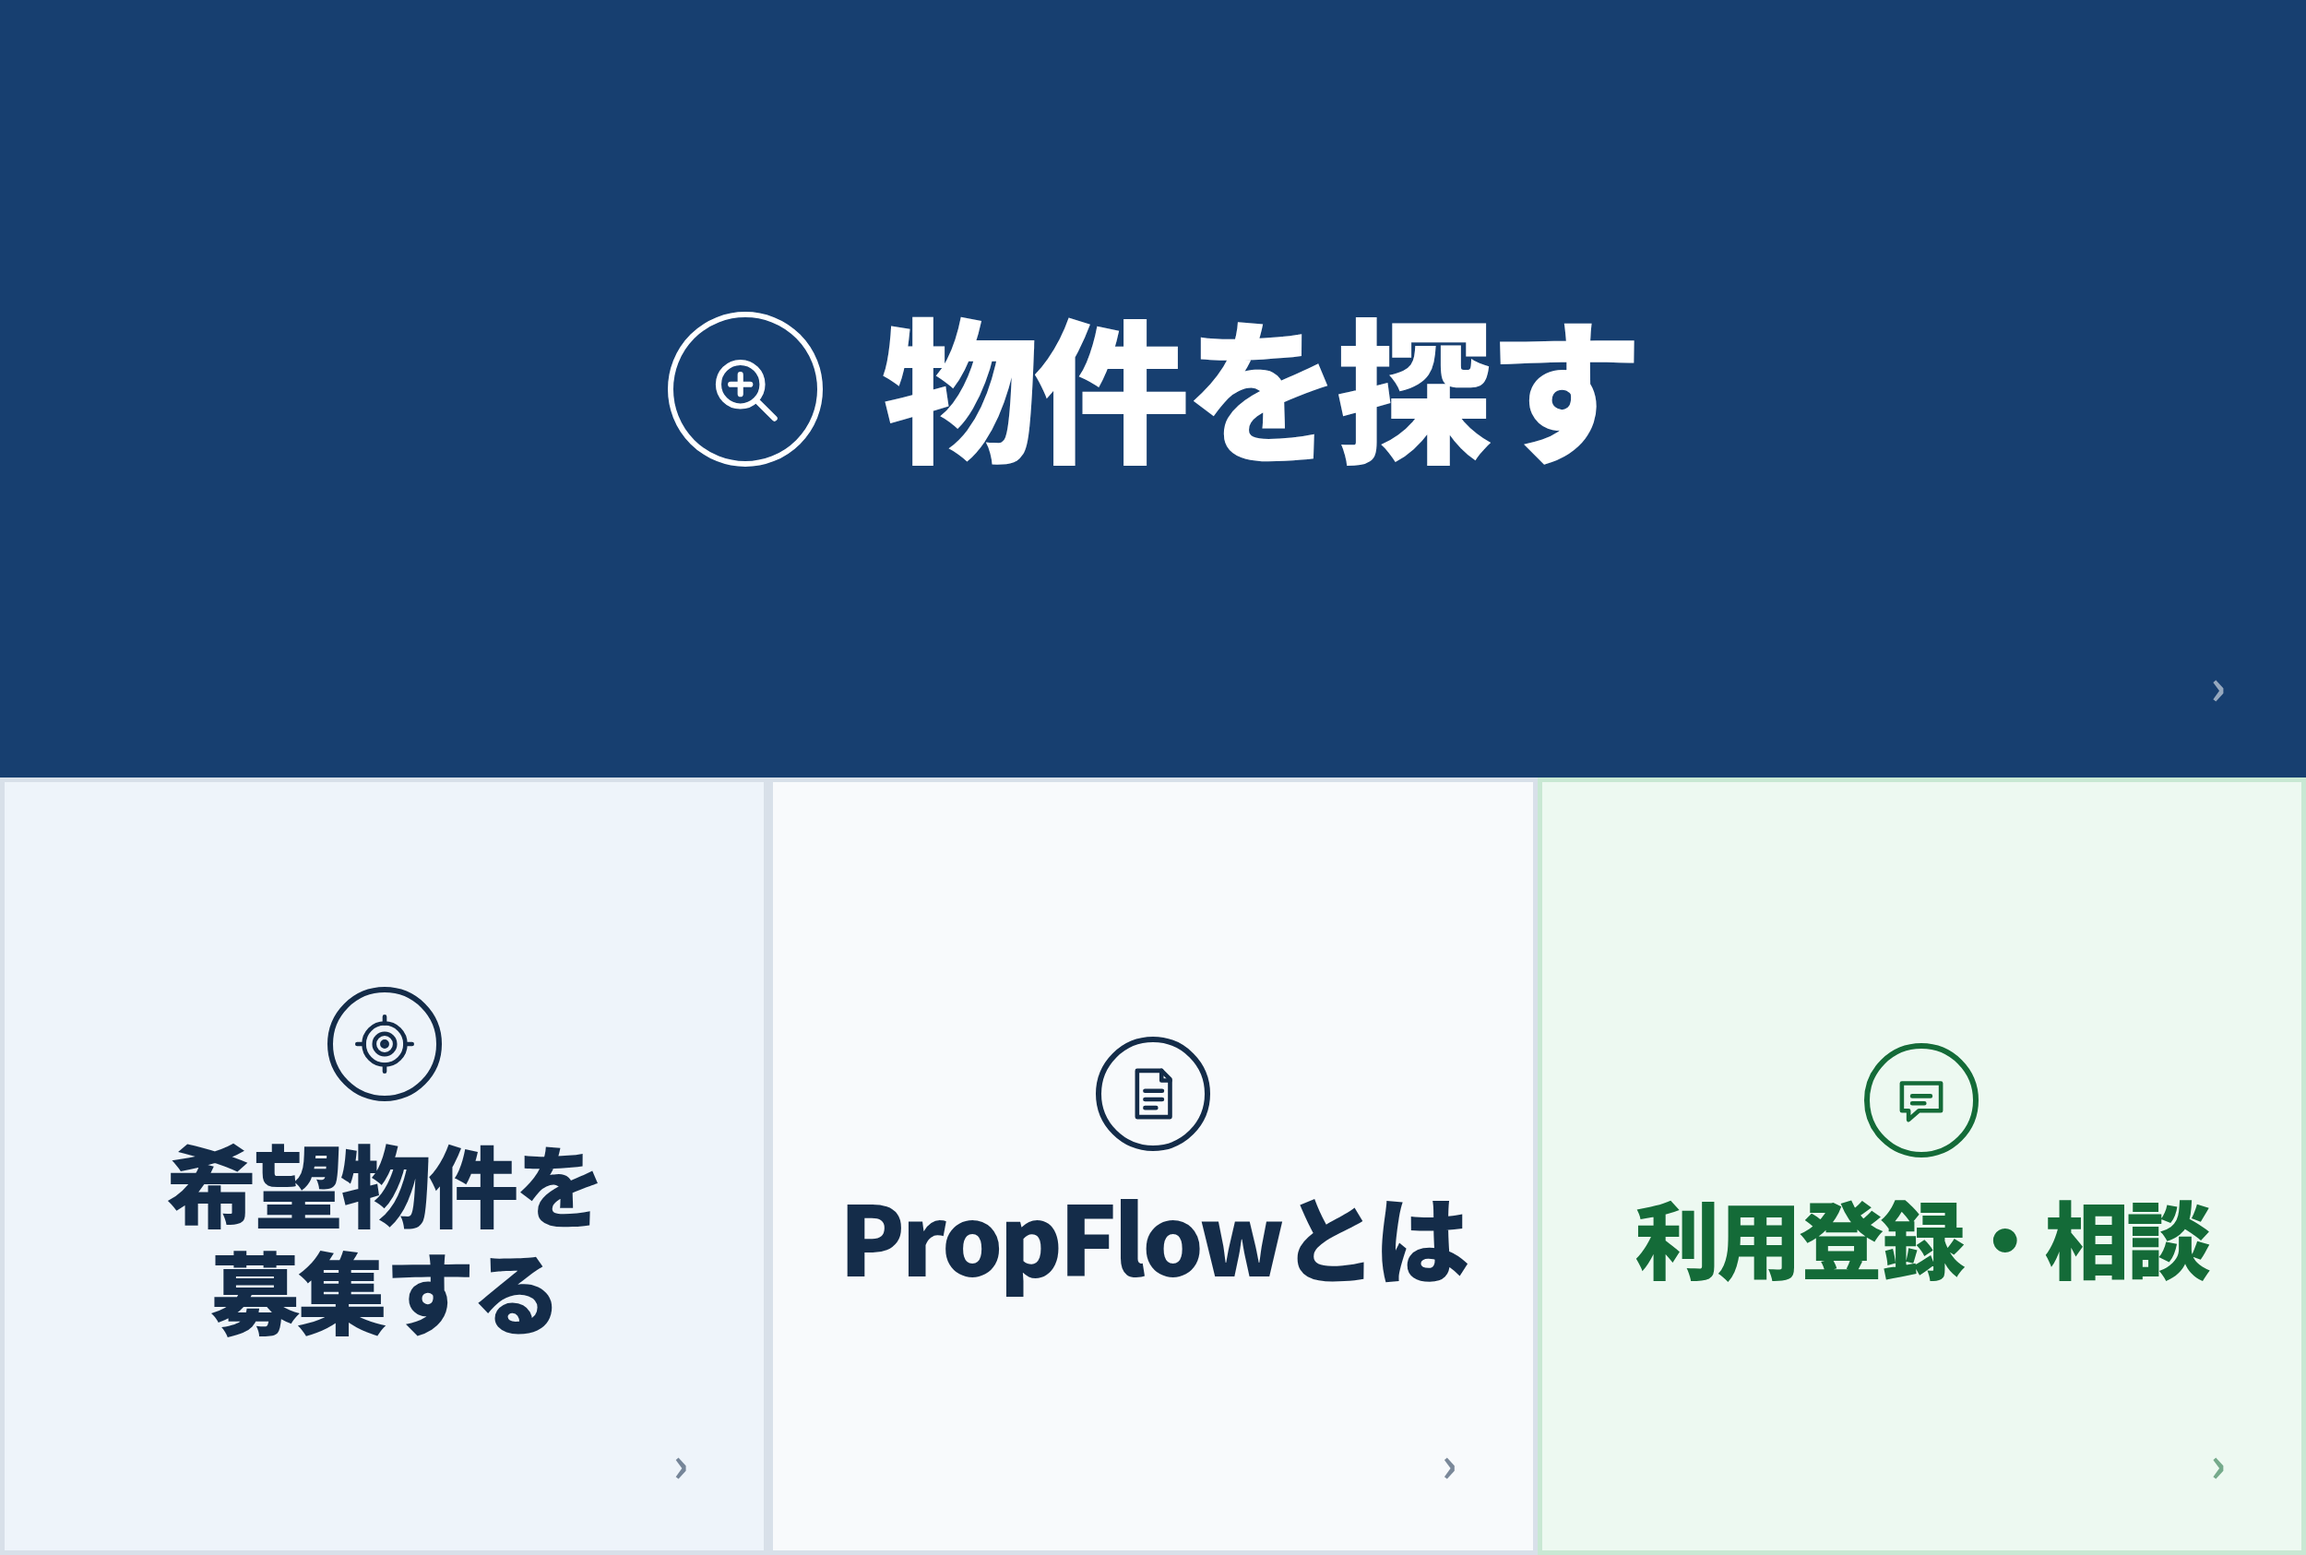
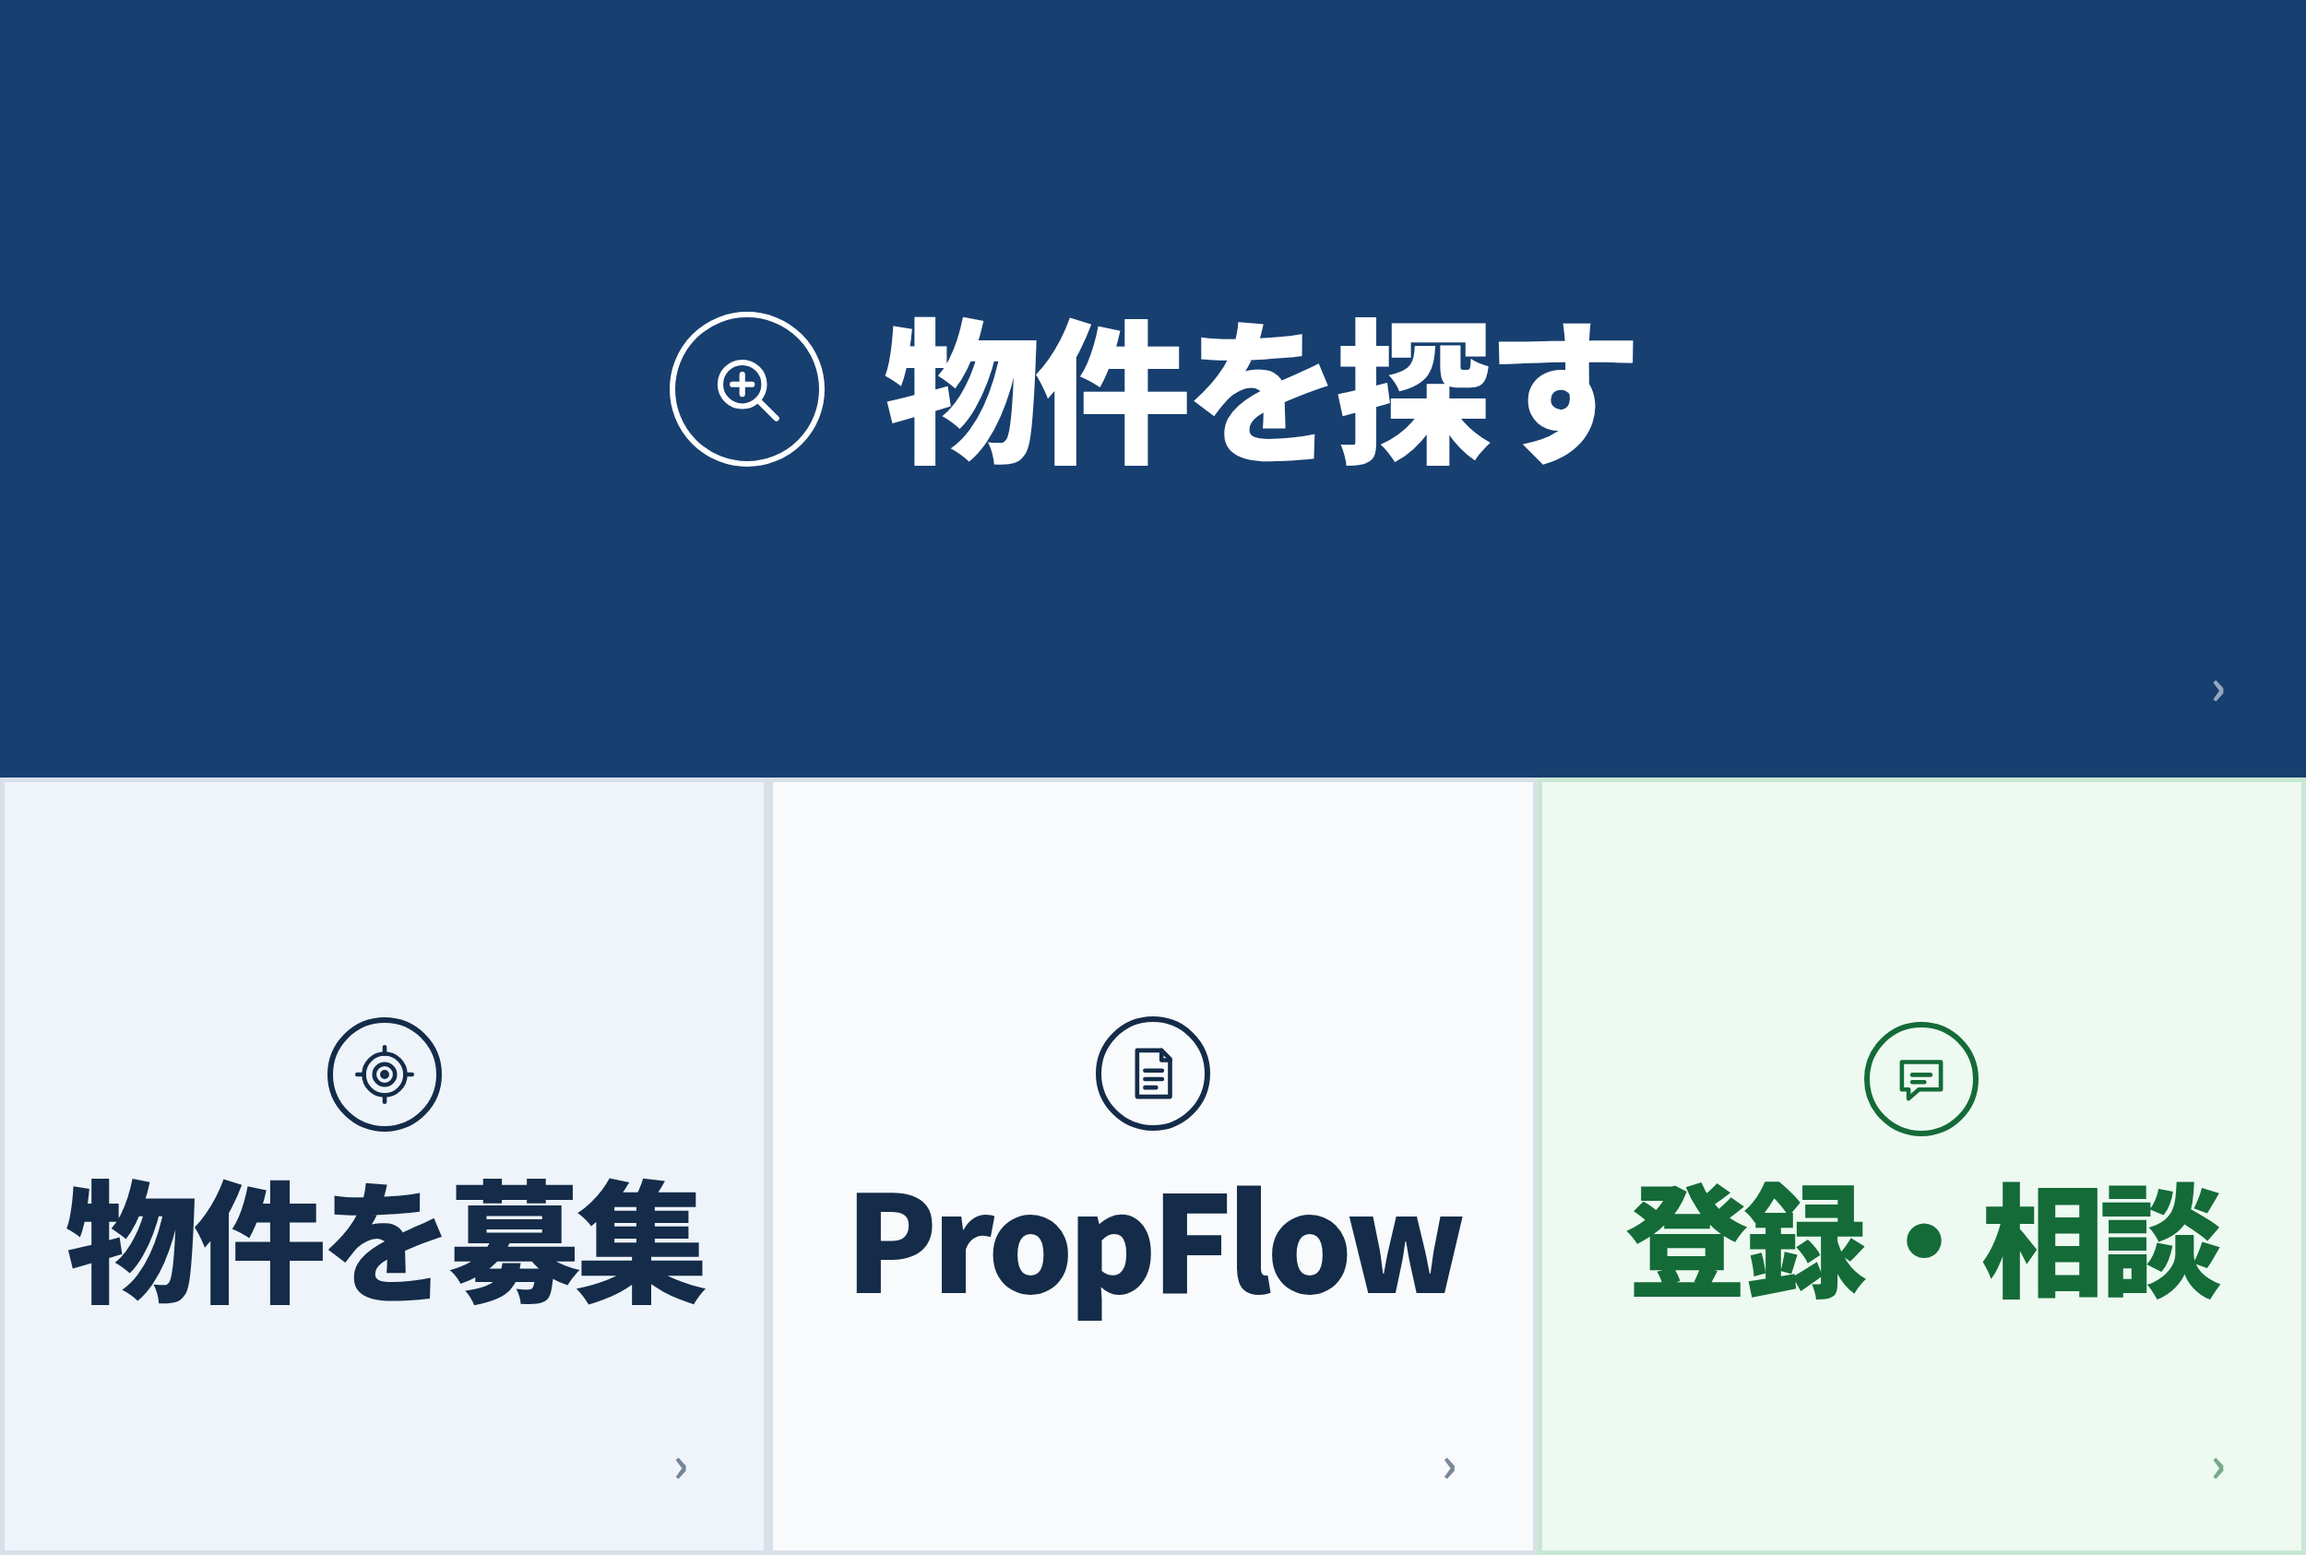
refine: enlarge LINE menu with shorter labels

diff --git a/docs/line/rich-menu-propflow.html b/docs/line/rich-menu-propflow.html
@@ -14,10 +14,10 @@
 .icon{display:grid;place-items:center;width:124px;height:124px;flex:0 0 124px;border:6px solid currentColor;border-radius:50%}
 .icon svg{width:66px;height:66px;fill:none;stroke:currentColor;stroke-width:7;stroke-linecap:round;stroke-linejoin:round}
 .item:first-child .icon{width:168px;height:168px;flex-basis:168px}.item:first-child .icon svg{width:88px;height:88px}
-.label{font-size:98px;font-weight:900;letter-spacing:-.035em;line-height:1.18}
+.label{font-size:144px;font-weight:900;letter-spacing:-.04em;line-height:1.15}
 .item:first-child .label{font-size:170px}
-.item:nth-child(3) .label{font-size:104px}
-.item:nth-child(4) .label{font-size:92px}
+.item:nth-child(3) .label{font-size:146px}
+.item:nth-child(4) .label{font-size:134px}
 .sub{margin-top:18px;font-size:27px;font-weight:500;line-height:1.55;opacity:.76}
 .item:first-child .sub{display:none}
 .item:not(:first-child) .sub{display:none}
@@ -36,17 +36,17 @@
   </section>
   <section class="item">
     <div class="icon"><svg viewBox="0 0 100 100"><circle cx="50" cy="50" r="34"/><circle cx="50" cy="50" r="17"/><circle cx="50" cy="50" r="4"/><path d="M50 5v11M50 84v11M5 50h11M84 50h11"/></svg></div>
-    <div><div class="label">希望物件を<br>募集する</div><div class="sub">条件を公開して提案を受ける</div></div><span class="arrow">›</span>
+    <div><div class="label">物件を募集</div><div class="sub">条件を公開して提案を受ける</div></div><span class="arrow">›</span>
   </section>
   <section class="item">
     <span class="brand">ABOUT</span>
     <div class="icon"><svg viewBox="0 0 100 100"><path d="M24 12h40l14 14v62H24z"/><path d="M64 12v16h14M37 45h28M37 59h28M37 73h18"/></svg></div>
-    <div><div class="label">PropFlowとは</div><div class="sub">サービス・機能を見る</div></div><span class="arrow">›</span>
+    <div><div class="label">PropFlow</div><div class="sub">サービス・機能を見る</div></div><span class="arrow">›</span>
   </section>
   <section class="item">
     <span class="brand">SUPPORT</span>
     <div class="icon"><svg viewBox="0 0 100 100"><path d="M18 22h64v45H46L29 82V67H18z"/><path d="M35 43h30M35 55h20"/></svg></div>
-    <div><div class="label">利用登録・相談</div><div class="sub">名刺登録・LINE相談</div></div><span class="arrow">›</span>
+    <div><div class="label">登録・相談</div><div class="sub">名刺登録・LINE相談</div></div><span class="arrow">›</span>
   </section>
 </main>
 </body>
